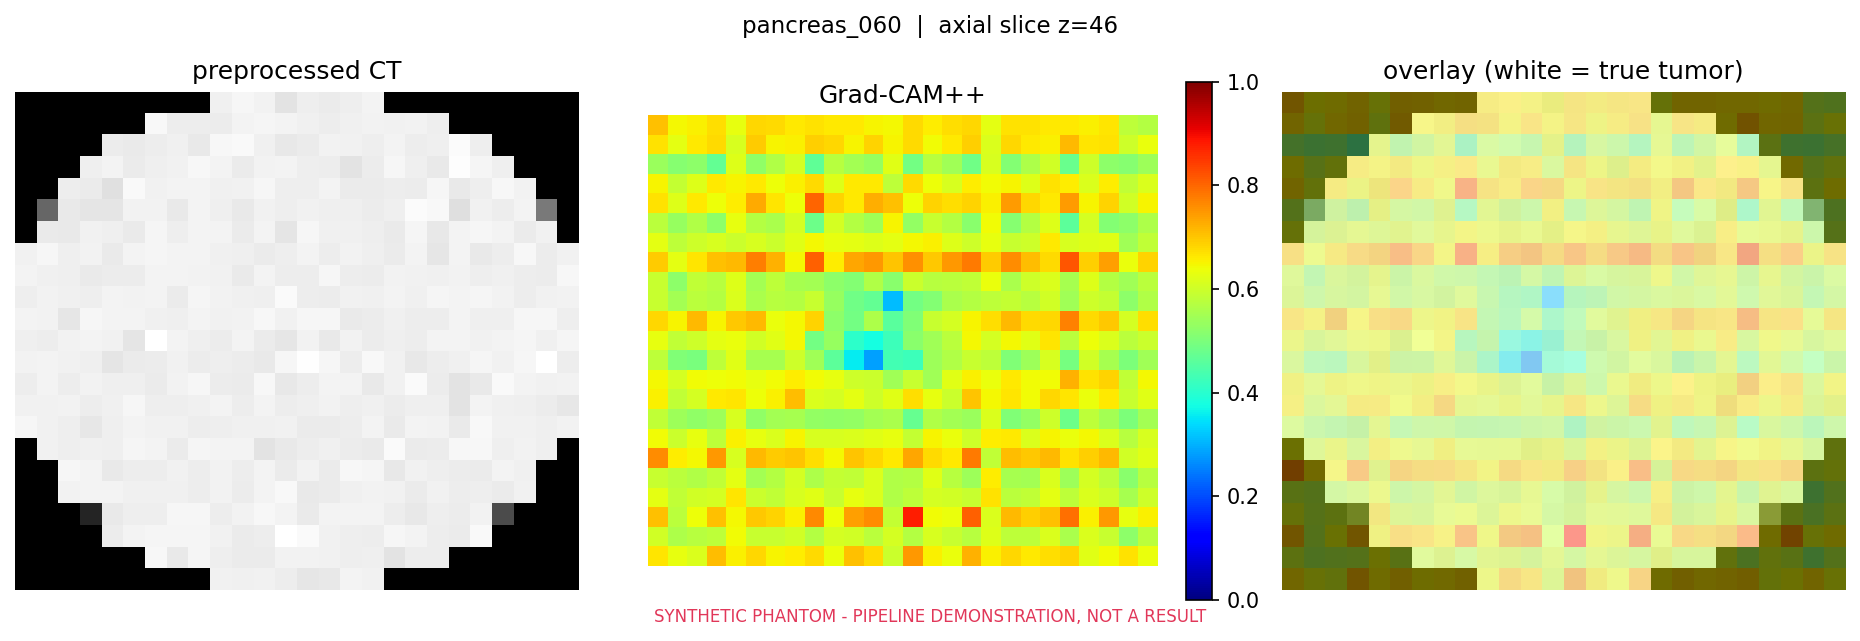
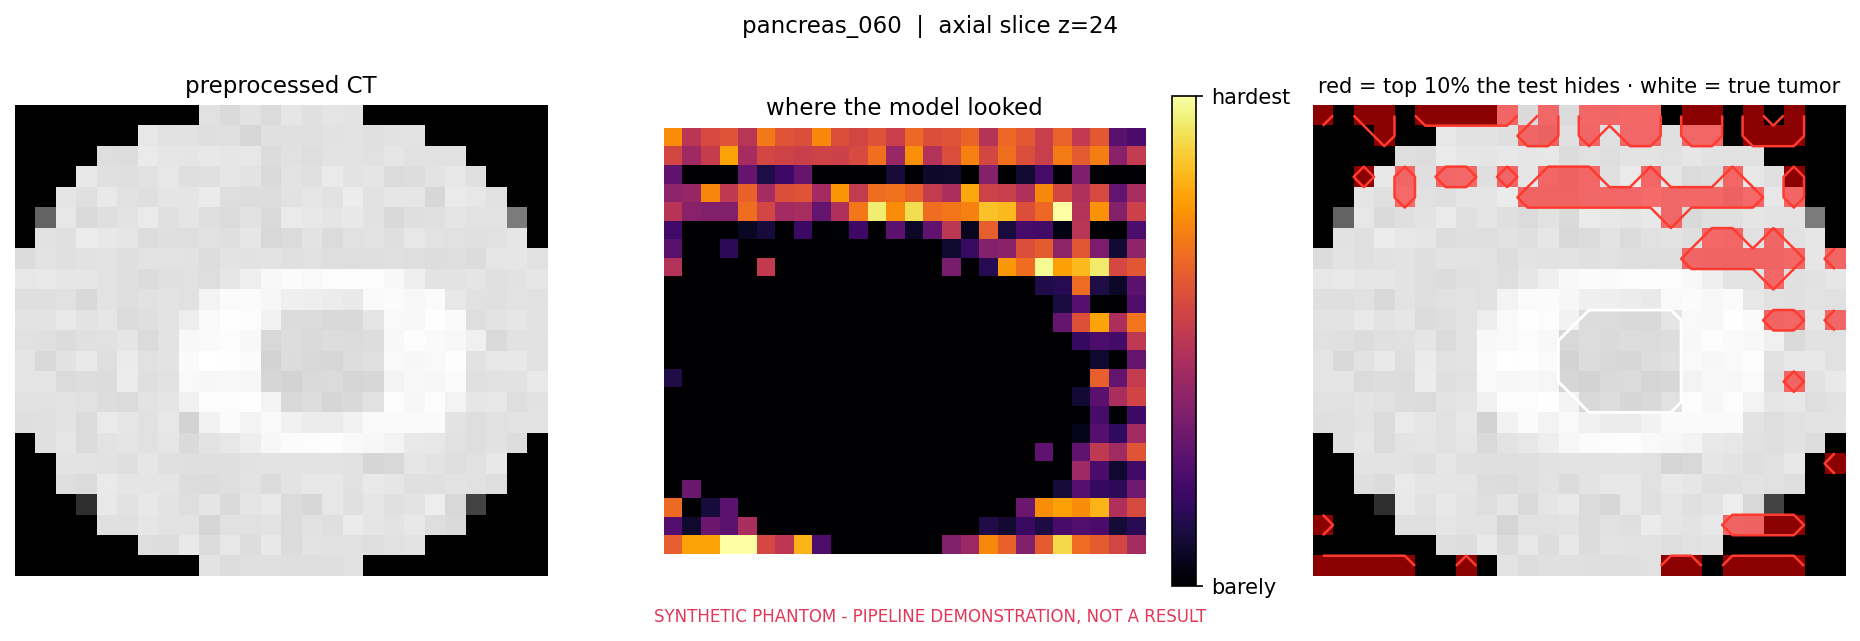
Make the demo UI readable by someone who did not write it
The verdict was one paragraph holding four numbers, and the saliency panel had
nothing saying how to read it. Both are now built for a radiologist or an
examiner rather than for us.

src/app.py: the verdict is a banner plus three labelled checks - calibrated
answer, model agreement, explanation check - each stating in words what it
measured and whether that was a problem, edged OK or NEEDS A HUMAN. "Set size
2" is not something a reader can act on; "at the confidence we demand, both
answers are still possible" is. Provenance folds into a details block so it
stops competing with the verdict, the two figures sit under plain-English
headings, and the controls are numbered.

src/explain.py, overlay_saliency: three fixes, all of which made the figure
say something it did not before.

- The slice shown is now the one holding the most tumour, not the one with the
  brightest saliency. The question the figure answers is "did it look where the
  tumour is", which cannot be read off a slice the tumour is not on - the white
  outline was simply never in frame.
- The heat map is stretched between its 50th and 99.5th percentile. A Grad-CAM
  map from a weakly trained network bunches near the top of [0, 1] and against
  a fixed scale rendered as a solid red rectangle.
- The third panel outlines exactly the top 10% of voxels that fidelity.mask_top_k
  hides, instead of washing the whole map over the image, so the picture and
  the PASS/FAIL verdict refer to the same region.
[…]

diff --git a/src/app.py b/src/app.py
@@ -34,7 +34,7 @@ import torch
 
 from .config import CHECKPOINT_DIR, DATA_DIR, LABEL_PANCREAS, LABEL_TUMOR, RESULTS_DIR
 from .phantom import DEMO_STAMP
-from .selective import ABSTAIN, decide, label_of
+from .selective import ABSTAIN, MAX_MC_STD, decide, label_of
 
 TUMOR_CHANNEL = 2           # 0 background / 1 pancreas / 2 tumor
 PATCH = (32, 32, 32)        # inference window; must divide down through the U-Net depth
@@ -249,43 +249,153 @@ def analyse(image_path: Path, model, trained: bool, q_hat, alpha,
     return fig, verdict, gt, trained, alpha
 
 
-def report_markdown(verdict: dict, gt, trained: bool, alpha, mc_passes: int) -> str:
-    d = verdict["decision"]
-    colour = {"tumor": "#d1495b", "no_tumor": "#2a9d8f", ABSTAIN: "#e09f3e"}[d]
-    lines = [
-        f"<h2 style='color:{colour};margin:0'>{label_of(d)}</h2>",
-        "",
-        f"**p(tumor)** {verdict['prob_tumor']:.3f}",
-    ]
-    if verdict["mc_std"] is not None:
-        lines.append(f"**MC Dropout spread** {verdict['mc_std']:.3f} over T={mc_passes} passes")
-    if verdict["conformal_set"] is not None:
-        names = {0: "no tumor", 1: "tumor"}
-        inside = ", ".join(names[c] for c in verdict["conformal_set"]) or "(empty)"
-        lines.append(f"**Conformal set** at {int((1 - (alpha or 0.1)) * 100)} % target "
-                     f"coverage: {{{inside}}}")
-    fid = verdict.get("fidelity")
-    if fid is not None:
-        mark = "PASS" if fid["passed"] else "FAIL"
-        lines.append(f"**F-Fidelity** {mark} — masking the most salient voxels moves the "
-                     f"score {fid['mean_margin']:+.3f} more than masking at random "
-                     f"(needs > {fid['threshold']:.3f})")
-    if verdict["reasons"]:
-        lines += ["", "**Why it was escalated**"] + [f"- {r}" for r in verdict["reasons"]]
-    if gt is not None:
-        truth = "tumor" if (np.asarray(gt) == LABEL_TUMOR).any() else "no tumor"
-        lines += ["", f"*Phantom ground truth: {truth}.*"]
+CARD = ("display:inline-block;vertical-align:top;width:31%;min-width:230px;margin:0 1% 10px 0;"
+        "padding:14px 16px;border-radius:10px;background:#1b2730;border-left:4px solid {edge}")
 
-    lines += [
-        "", "---", "",
-        "**Provenance**",
-        f"- segmentation weights: {'checkpoint loaded' if trained else 'UNTRAINED (random)'}",
-        "- p(tumor): read off the segmentation tumor channel; **no stage 6.3 classifier exists yet**",
-        "- fidelity signal: Grad-CAM++ on the segmentation score head, "
-        "F-Fidelity vs random masking",
-        f"- data: synthetic phantom. {DEMO_STAMP}",
+VERDICT_STYLE = {
+    "tumor": ("#D1495B", "The system is reporting a tumour in this scan."),
+    "no_tumor": ("#2A9D8F", "The system found no tumour in this scan."),
+    ABSTAIN: ("#E09F3E", "The system will not answer this scan. It is asking for a human."),
+}
+
+
+def _card(edge: str, state: str, title: str, value: str, meaning: str) -> str:
+    return (f"<div style='{CARD.format(edge=edge)}'>"
+            f"<div style='font-size:12px;letter-spacing:1px;color:{edge};font-weight:600'>{state}</div>"
+            f"<div style='font-size:15px;font-weight:600;margin-top:2px'>{title}</div>"
+            f"<div style='font-size:19px;margin-top:6px'>{value}</div>"
+            f"<div style='font-size:13px;color:#9aa8b2;margin-top:4px;line-height:1.4'>{meaning}</div>"
+            "</div>")
+
+
+def verdict_html(verdict: dict, gt, alpha, mc_passes: int) -> str:
+    """The verdict as three labelled checks instead of one paragraph.
+
+    Each check states in words what it measured and whether that was a problem.
+    A reader who does not already know what a conformal set is cannot act on
+    "set size 2", and the people this has to convince are radiologists and
+    examiners, not the three of us who wrote it.
+    """
+    d = verdict["decision"]
+    colour, lead = VERDICT_STYLE[d]
+    ok, flag = "#2A9D8F", "#E09F3E"
+
+    out = [
+        f"<div style='padding:16px 18px;border-radius:12px;background:{colour}1A;"
+        f"border:1px solid {colour}'>"
+        f"<div style='font-size:26px;font-weight:700;color:{colour};line-height:1.2'>{label_of(d)}</div>"
+        f"<div style='font-size:15px;color:#c8d4da;margin-top:6px'>{lead}</div></div>",
+        "<div style='margin-top:14px'>",
     ]
-    return "\n".join(lines)
+
+    # 1 - the calibrated answer
+    cset = verdict["conformal_set"]
+    if cset is None:
+        out.append(_card("#6b7a85", "NOT AVAILABLE", "Calibrated answer",
+                         "&mdash;", "No calibration file was found."))
+    else:
+        names = {0: "no tumour", 1: "tumour"}
+        inside = ", ".join(names[c] for c in cset) or "empty"
+        single = len(cset) == 1
+        out.append(_card(
+            ok if single else flag,
+            "OK" if single else "NEEDS A HUMAN",
+            f"Calibrated answer &mdash; {int((1 - (alpha or 0.1)) * 100)}% confidence",
+            "{" + inside + "}",
+            "Narrowed to one answer at the confidence we demand." if single
+            else "At the confidence we demand, both answers are still possible."))
+
+    # 2 - do the repeated runs agree with each other
+    std = verdict["mc_std"]
+    if std is None:
+        out.append(_card("#6b7a85", "NOT AVAILABLE", "Model agreement",
+                         "&mdash;", "Repeat runs were switched off."))
+    else:
+        steady = std <= MAX_MC_STD
+        out.append(_card(
+            ok if steady else flag,
+            "OK" if steady else "NEEDS A HUMAN",
+            f"Model agreement &mdash; {mc_passes} repeat runs",
+            f"spread {std:.3f}",
+            f"The {mc_passes} runs agreed with each other." if steady
+            else f"The {mc_passes} runs disagreed (over {MAX_MC_STD:.2f})."))
+
+    # 3 - does the explanation survive being tested
+    fid = verdict.get("fidelity")
+    if fid is None:
+        out.append(_card("#6b7a85", "NOT AVAILABLE", "Explanation check",
+                         "&mdash;", "Saliency was switched off for this run."))
+    else:
+        passed = fid["passed"]
+        out.append(_card(
+            ok if passed else flag,
+            "OK" if passed else "NEEDS A HUMAN",
+            "Explanation check &mdash; F-Fidelity",
+            "PASS" if passed else "FAIL",
+            "Hiding the highlighted region really does change the answer." if passed
+            else "Hiding the highlighted region changed the answer no more than hiding "
+                 "random tissue, so the heat map is not trustworthy."))
+
+    out.append("</div>")
+
+    if verdict["reasons"]:
+        items = "".join(f"<li style='margin:3px 0'>{r}</li>" for r in verdict["reasons"])
+        out.append("<div style='margin-top:6px;font-size:14px;color:#c8d4da'>"
+                   f"<b>Escalated because:</b><ul style='margin:6px 0 0 18px'>{items}</ul></div>")
+
+    if gt is not None:
+        truth = "tumour" if (np.asarray(gt) == LABEL_TUMOR).any() else "no tumour"
+        agrees = (truth == "tumour") == (d == "tumor")
+        note = ("the system agreed" if d != ABSTAIN and agrees else
+                "the system disagreed" if d != ABSTAIN else
+                "the system declined to answer rather than guess")
+        out.append("<div style='margin-top:10px;font-size:14px;color:#9aa8b2'>"
+                   f"<b>Known answer for this test case:</b> {truth} &mdash; {note}.</div>")
+    return "".join(out)
+
+
+def provenance_html(trained: bool) -> str:
+    """Folded away by default, but always one click from the verdict."""
+    rows = [
+        ("Segmentation weights", "checkpoint loaded" if trained else "UNTRAINED (random)"),
+        ("Tumour probability", "read off the segmentation tumour channel &mdash; "
+                               "<b>no stage 6.3 classifier exists yet</b>"),
+        ("Explanation", "Grad-CAM++ on the segmentation score head, "
+                        "F-Fidelity vs random masking"),
+        ("Data", f"synthetic phantom &mdash; {DEMO_STAMP}"),
+    ]
+    body = "".join(
+        f"<tr><td style='padding:4px 14px 4px 0;color:#9aa8b2;white-space:nowrap'>{k}</td>"
+        f"<td style='padding:4px 0'>{v}</td></tr>" for k, v in rows)
+    return ("<details style='margin-top:14px;font-size:13px;color:#c8d4da'>"
+            "<summary style='cursor:pointer;color:#9aa8b2'>What this run is actually based on"
+            "</summary>"
+            f"<table style='margin-top:8px;border-collapse:collapse'>{body}</table></details>")
+
+
+HOW_TO_READ_SEG = (
+    "<div style='font-size:14px;color:#c8d4da;line-height:1.55'>"
+    "<b>How to read this.</b> Left is the CT after preprocessing. Middle is what the model "
+    "found: <span style='color:#4ade80'><b>green outline = pancreas</b></span>, "
+    "<span style='color:#f87171'><b>red outline = tumour</b></span>. Right is the correct "
+    "answer, for comparison.</div>")
+
+HOW_TO_READ_CAM = (
+    "<div style='font-size:14px;color:#c8d4da;line-height:1.55'>"
+    "<b>How to read this.</b> The heat map shows <i>where the model looked</i> to reach its "
+    "answer &mdash; <span style='color:#f87171'><b>red is where it looked hardest</b></span>, "
+    "blue is where it barely looked. The <b>white outline</b> is the real tumour. A "
+    "trustworthy explanation puts the red inside the white."
+    "<br><br><b>But looking right is not proof.</b> So the system hides the red region and "
+    "checks whether the answer actually changes, then compares that against hiding the same "
+    "amount of <i>random</i> tissue. If hiding the red region matters no more than hiding "
+    "anything else, the heat map was decoration &mdash; and the Explanation check above "
+    "reports FAIL.</div>")
+
+
+def report_markdown(verdict: dict, gt, trained: bool, alpha, mc_passes: int) -> str:
+    """The whole report as one string, for callers that want it in one piece."""
+    return verdict_html(verdict, gt, alpha, mc_passes) + provenance_html(trained)
 
 
 # -------------------------------------------------------------------------- UI
@@ -303,18 +413,26 @@ def build_ui(data_root: Path, checkpoint: str = "", mc_passes: int = MC_PASSES):
     patch = training_patch()
     cases = list_cases(data_root)
 
-    banner = (
-        f"### Pancreatic cancer early detection — stages 6.1 → 6.6\n"
-        f"**{DEMO_STAMP}**\n\n"
-        f"Segmentation checkpoint: `{ckpt if ckpt else 'none — random weights'}` · "
-        f"conformal q̂: `{q_hat if q_hat is not None else 'not calibrated'}` · "
-        f"MC Dropout T={mc_passes} · window {patch}"
-    )
+    header = (
+        "<div style='padding:2px 0 10px'>"
+        "<div style='font-size:24px;font-weight:700'>Pancreatic cancer early detection</div>"
+        "<div style='font-size:15px;color:#9aa8b2;margin-top:4px'>"
+        "A CT volume goes in. The system answers &mdash; or refuses, and says why. "
+        "Stages 6.1 to 6.6.</div>"
+        f"<div style='margin-top:10px;display:inline-block;padding:5px 11px;border-radius:6px;"
+        f"background:#C1453A22;border:1px solid #C1453A;color:#E8938B;font-size:12px;"
+        f"letter-spacing:1px;font-weight:600'>{DEMO_STAMP}</div></div>")
+
+    waiting = ("<div style='padding:28px 18px;border-radius:12px;background:#1b2730;"
+               "color:#9aa8b2;font-size:15px;line-height:1.6'>"
+               "Pick a case on the left and press <b>Analyse</b>.<br>"
+               "The system will run all six stages and show you the verdict, the three checks "
+               "behind it, and where the model looked.</div>")
 
     def run(case_name, uploaded, target_alpha, want_saliency):
         path = Path(uploaded) if uploaded else (data_root / "imagesTr" / case_name)
         if not path.exists():
-            return None, None, f"**No such case:** `{path}`"
+            return None, None, f"**No such case:** `{path}`", ""
         q = q_hat_for(curve, target_alpha, fallback=q_hat)
         fig, verdict, gt, is_trained, _ = analyse(
             path, model, trained, q, target_alpha, mc_passes=mc_passes, patch=patch,
@@ -326,28 +444,45 @@ def build_ui(data_root: Path, checkpoint: str = "", mc_passes: int = MC_PASSES):
             x, _ = load_volume(path)
             sal_fig = overlay_saliency(x, verdict["saliency"], gt=gt,
                                        title=path.name.replace(".nii.gz", ""))
-        return fig, sal_fig, report_markdown(verdict, gt, is_trained, target_alpha, mc_passes)
+        report = (verdict_html(verdict, gt, target_alpha, mc_passes)
+                  + provenance_html(is_trained))
+        return fig, sal_fig, report, (HOW_TO_READ_CAM if sal_fig is not None else "")
 
     with gr.Blocks(title="Pancreatic cancer early detection") as ui:
-        gr.Markdown(banner)
+        gr.HTML(header)
         with gr.Row():
-            with gr.Column(scale=1):
+            with gr.Column(scale=1, min_width=300):
                 case = gr.Dropdown(cases, value=cases[0] if cases else None,
-                                   label="Phantom case")
+                                   label="1. Choose a scan")
                 upload = gr.File(label="…or upload a NIfTI volume (.nii.gz)",
                                  file_types=[".gz", ".nii"], type="filepath")
                 alpha_in = gr.Slider(0.02, 0.5, value=alpha or 0.1, step=0.02,
-                                     label="conformal alpha (1 - target coverage)",
-                                     info="tighter coverage -> larger sets -> more escalations")
-                saliency_in = gr.Checkbox(value=True, label="Grad-CAM++ and F-Fidelity (6.5)",
-                                          info="adds ~20 forward passes")
-                go = gr.Button("Analyse", variant="primary")
-            with gr.Column(scale=2):
-                out_md = gr.Markdown()
-        out_fig = gr.Plot(label="Segmentation")
-        out_sal = gr.Plot(label="Grad-CAM++ saliency (stage 6.5)")
+                                     label="2. How confident must it be?",
+                                     info="Left = stricter, so more scans get sent to a human")
+                saliency_in = gr.Checkbox(value=True,
+                                          label="Explain the decision (stage 6.5)",
+                                          info="Adds about a minute: Grad-CAM++ and the "
+                                               "masking test")
+                go = gr.Button("3. Analyse", variant="primary", size="lg")
+                gr.HTML("<div style='margin-top:10px;font-size:12px;color:#6b7a85;"
+                        "line-height:1.5'>"
+                        f"Weights: {'checkpoint' if trained else 'UNTRAINED'} &middot; "
+                        f"repeat runs: {mc_passes} &middot; window {patch}</div>")
+            with gr.Column(scale=2, min_width=420):
+                out_md = gr.HTML(waiting)
+
+        gr.HTML("<div style='margin:18px 0 4px;font-size:17px;font-weight:600'>"
+                "What the model found</div>")
+        out_fig = gr.Plot(label="", show_label=False)
+        gr.HTML(HOW_TO_READ_SEG)
+
+        gr.HTML("<div style='margin:22px 0 4px;font-size:17px;font-weight:600'>"
+                "Why it decided that &mdash; and whether that reason holds up</div>")
+        out_sal = gr.Plot(label="", show_label=False)
+        cam_help = gr.HTML("")
+
         go.click(run, inputs=[case, upload, alpha_in, saliency_in],
-                 outputs=[out_fig, out_sal, out_md])
+                 outputs=[out_fig, out_sal, out_md, cam_help])
     return ui
 
 

diff --git a/src/explain.py b/src/explain.py
@@ -174,33 +174,75 @@ class ScoreHead(nn.Module):
 
 
 def overlay_saliency(image, saliency, path=None, title: str = "", gt=None,
-                     stamp: bool = True, z: int | None = None):
-    """CT, saliency heat map, and the two superimposed, on one axial slice."""
+                     stamp: bool = True, z: int | None = None,
+                     top_k_frac: float = 0.10):
+    """CT, the heat map, and the region the fidelity test actually masks.
+
+    The third panel is not a translucent wash of the whole heat map. It outlines
+    exactly the top `top_k_frac` of voxels - the ones `fidelity.mask_top_k`
+    hides when it tests the explanation - so the picture and the PASS/FAIL
+    verdict refer to the same region rather than to two loosely related things.
+
+    The heat map panel is stretched between its 50th and 99.5th percentile. A
+    Grad-CAM map from a weakly-trained network sits bunched near the top of
+    [0, 1]; drawn against a fixed 0-1 scale it is a solid red rectangle, which
+    looks like a bug and shows nothing.
+    """
     import matplotlib.pyplot as plt
 
+    from .config import LABEL_TUMOR
     from .phantom import stamp_figure
     from .viz import save_fig
 
     img = np.asarray(image).squeeze()
     sal = np.asarray(saliency).squeeze()
     if z is None:
-        z = int(sal.sum(axis=(0, 1)).argmax()) if sal.any() else img.shape[2] // 2
+        # Prefer the slice holding the most tumour: the question this figure
+        # answers is "did it look where the tumour is", which cannot be read off
+        # a slice the tumour is not on. Only when there is no tumour to show
+        # does the brightest saliency slice become the useful one.
+        z = None
+        if gt is not None:
+            tumour = np.asarray(gt).squeeze() == LABEL_TUMOR
+            if tumour.any():
+                z = int(tumour.sum(axis=(0, 1)).argmax())
+        if z is None:
+            z = int(sal.sum(axis=(0, 1)).argmax()) if sal.any() else img.shape[2] // 2
 
-    im, sl = np.rot90(img[:, :, z]), np.rot90(sal[:, :, z])
+    # the top-k voxels over the WHOLE volume, so the slice shows this slice's
+    # share of what the test masks rather than its own local maximum
+    flat = sal.ravel()
+    n = max(1, int(round(top_k_frac * flat.size)))
+    cut = float(np.partition(flat, -n)[-n]) if flat.size else 1.0
+
+    im = np.rot90(img[:, :, z])
+    sl = np.rot90(sal[:, :, z])
+    hot = sl >= cut
+
+    lo, hi = np.percentile(sal, 50), np.percentile(sal, 99.5)
+    if hi <= lo:
+        lo, hi = float(sal.min()), max(float(sal.max()), float(sal.min()) + 1e-6)
+
     fig, ax = plt.subplots(1, 3, figsize=(12.5, 4.2))
     ax[0].imshow(im, cmap="gray")
-    ax[0].set_title("preprocessed CT")
-    hm = ax[1].imshow(sl, cmap="jet", vmin=0, vmax=1)
-    ax[1].set_title("Grad-CAM++")
-    fig.colorbar(hm, ax=ax[1], fraction=0.046)
-    ax[2].imshow(im, cmap="gray")
-    ax[2].imshow(sl, cmap="jet", alpha=0.45, vmin=0, vmax=1)
-    if gt is not None:
-        from .config import LABEL_TUMOR
+    ax[0].set_title("preprocessed CT", fontsize=11)
 
+    hm = ax[1].imshow(sl, cmap="inferno", vmin=lo, vmax=hi)
+    ax[1].set_title("where the model looked", fontsize=11)
+    cb = fig.colorbar(hm, ax=ax[1], fraction=0.046)
+    cb.set_ticks([lo, hi])
+    cb.set_ticklabels(["barely", "hardest"])
+
+    ax[2].imshow(im, cmap="gray")
+    ax[2].imshow(np.ma.masked_where(~hot, hot.astype(float)), cmap="autumn", alpha=0.55)
+    ax[2].contour(hot, colors="#ff3b30", linewidths=1.2)
+    legend = f"red = top {top_k_frac:.0%} the test hides"
+    if gt is not None:
         ax[2].contour(np.rot90(np.asarray(gt).squeeze()[:, :, z]) == LABEL_TUMOR,
-                      colors="white", linewidths=1.0)
-    ax[2].set_title("overlay" + (" (white = true tumor)" if gt is not None else ""))
+                      colors="white", linewidths=1.4)
+        legend += " · white = true tumor"
+    ax[2].set_title(legend, fontsize=10)
+
     for a in ax:
         a.axis("off")
     fig.suptitle(f"{title}  |  axial slice z={z}", fontsize=11)
